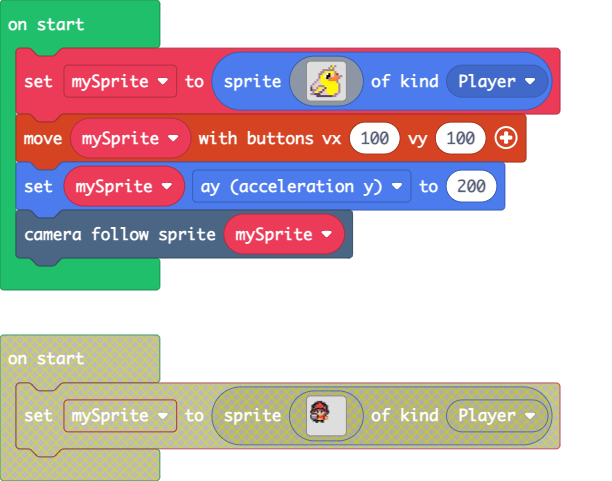
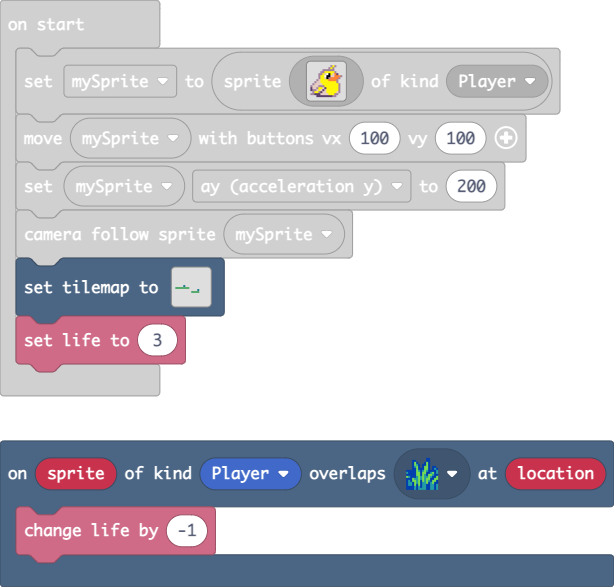
Update pxt.json, main.blocks, main.ts, tilemap.g.jres, tilemap.g.ts

diff --git a/tilemap.g.ts b/tilemap.g.ts
@@ -1,0 +1,43 @@
+// Auto-generated code. Do not edit.
+namespace myTiles {
+    //% fixedInstance jres blockIdentity=images._tile
+    export const transparency16 = image.ofBuffer(hex``);
+    //% fixedInstance jres blockIdentity=images._tile
+    export const tile1 = image.ofBuffer(hex``);
+
+    helpers._registerFactory("tilemap", function(name: string) {
+        switch(helpers.stringTrim(name)) {
+            case "level1":
+            case "level1":return tiles.createTilemap(hex`1000100000000000000000000000000000000000000000000000000000000000000000000000000000000000000000000000000000000000000000000000000000000000000000000000000000000000000000000000000000000000000000000000000000000000000000000000000000000000000000000400000000000000000000000102020202020200000000000000000000000000000000000000000400000000000000000000000001020203000000000000000000000000000000000000000000000000000000000000000000000000000000000000000000000000000000000000000000000000000000000000000000000000000000000000000000000000`, img`
+. . . . . . . . . . . . . . . . 
+. . . . . . . . . . . . . . . . 
+. . . . . . . . . . . . . . . . 
+. . . . . . . . . . . . . . . . 
+. . . . . . . . . . . . . . . . 
+. . . . . . . . . . . . . . . . 
+. . . . . . . . . . . . . . . . 
+. . . . . . . . . . . . . . . . 
+. . . . . . . . . . . . . . . . 
+. . . . . . . . . . . . . . . . 
+. . . . . . . . . . . . . . . . 
+. . . . . . . . . . . . . . . . 
+. . . . . . . . . . . . . . . . 
+. . . . . . . . . . . . . . . . 
+. . . . . . . . . . . . . . . . 
+. . . . . . . . . . . . . . . . 
+`, [myTiles.transparency16,sprites.builtin.forestTiles1,sprites.builtin.forestTiles2,sprites.builtin.forestTiles3,sprites.swamp.swampTile1,myTiles.tile1], TileScale.Sixteen);
+        }
+        return null;
+    })
+
+    helpers._registerFactory("tile", function(name: string) {
+        switch(helpers.stringTrim(name)) {
+            case "transparency16":return transparency16;
+            case "myTile":
+            case "tile1":return tile1;
+        }
+        return null;
+    })
+
+}
+// Auto-generated code. Do not edit.

diff --git a/main.ts b/main.ts
@@ -1,3 +1,6 @@
+scene.onOverlapTile(SpriteKind.Player, sprites.swamp.swampTile1, function (sprite, location) {
+    info.changeLifeBy(-1)
+})
 let mySprite = sprites.create(img`
     . . . . . . . . . . b 5 b . . . 
     . . . . . . . . . b 5 b . . . . 
@@ -19,3 +22,5 @@ let mySprite = sprites.create(img`
 controller.moveSprite(mySprite, 100, 100)
 mySprite.ay = 200
 scene.cameraFollowSprite(mySprite)
+tiles.setTilemap(tilemap`level1`)
+info.setLife(3)
